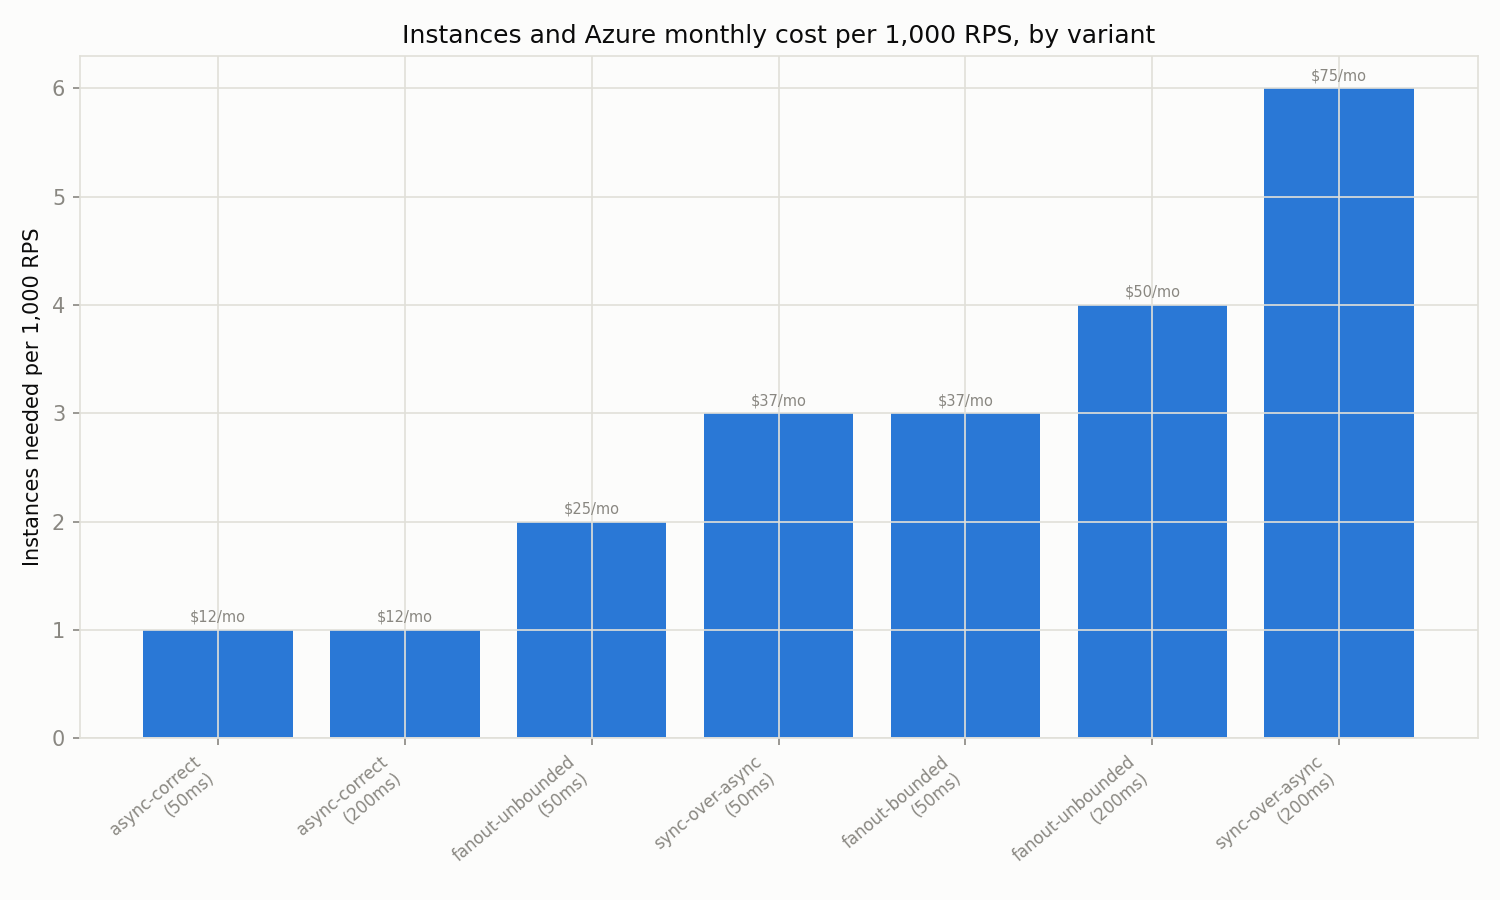
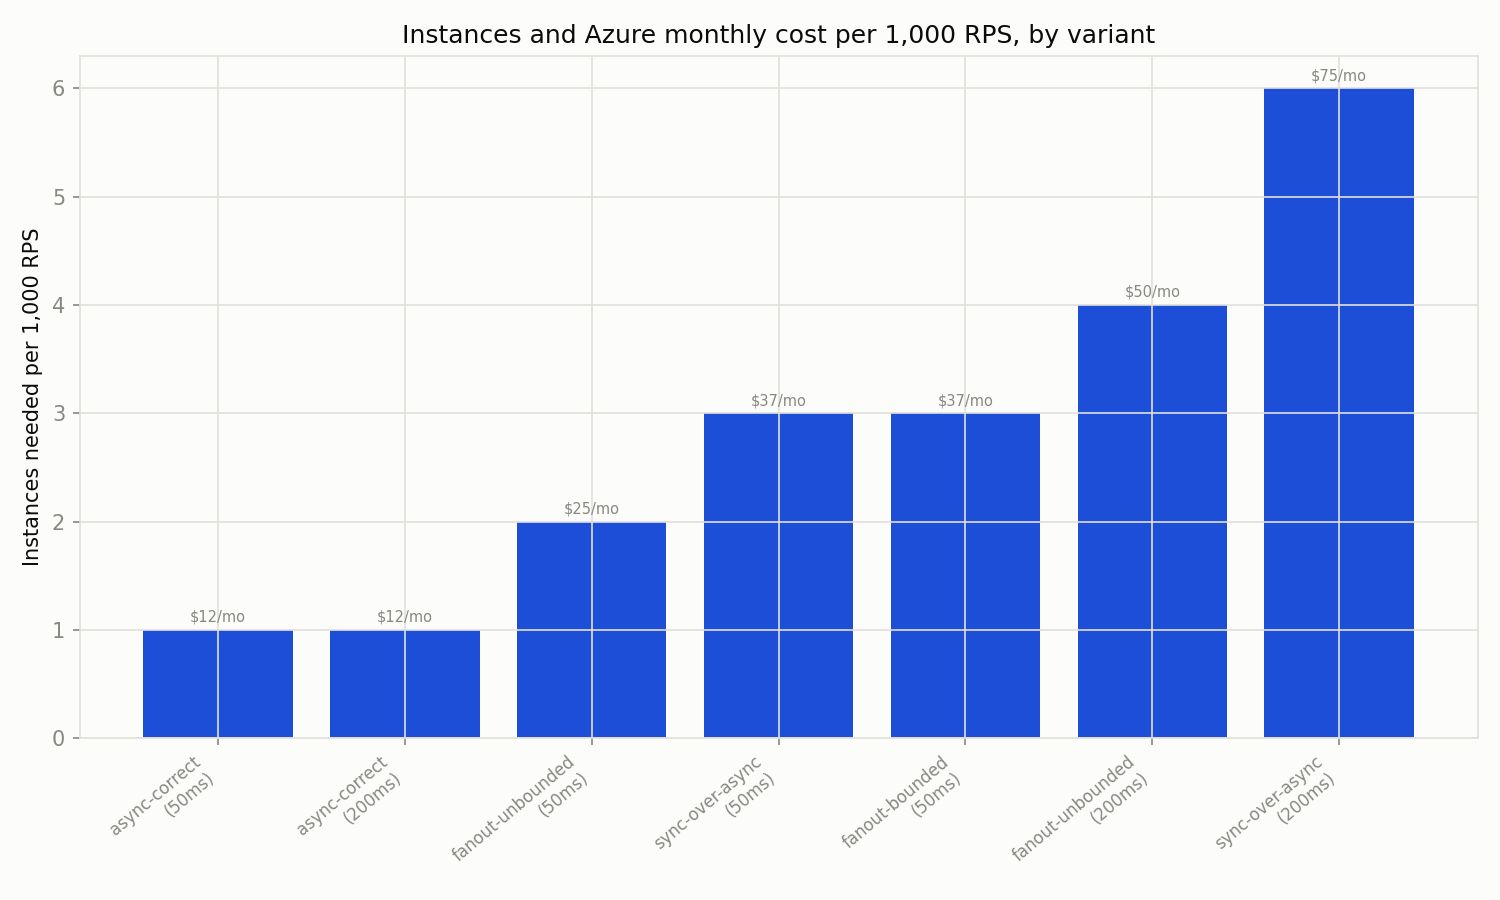
feat(bench): derive chart palette from the post's cover image

Changed region(s): [[0.092, 0.0933, 0.9507, 0.84]]

diff --git a/companion-code/async-await-web-api-cloud-costs/scripts/make_charts.py b/companion-code/async-await-web-api-cloud-costs/scripts/make_charts.py
@@ -22,8 +22,12 @@ SURFACE = "#fcfcfb"
 INK = "#0b0b0b"
 MUTED = "#898781"
 GRID = "#e1e0d9"
-CATEGORICAL = ["#2a78d6", "#eb6834", "#1baf7a", "#eda100",
-               "#e87ba4", "#008300", "#4a3aa7", "#e34948"]
+# Derived from the post's cover image (cloud-city-r4vDq.jpg: navy/blue sky,
+# cyan/teal city lights, green data-stream glow), re-stepped and validated
+# with the dataviz skill's validate_palette.js (light mode, surface #fcfcfb):
+# all six categorical checks pass, worst adjacent pair ΔE 10.3 (CVD) / 23.3 (normal).
+CATEGORICAL = ["#1d4ed8", "#d97706", "#0d9488", "#7c3aed",
+               "#16a34a", "#be185d", "#0891b2", "#a16207"]
 
 plt.rcParams.update({
     "figure.facecolor": SURFACE,
